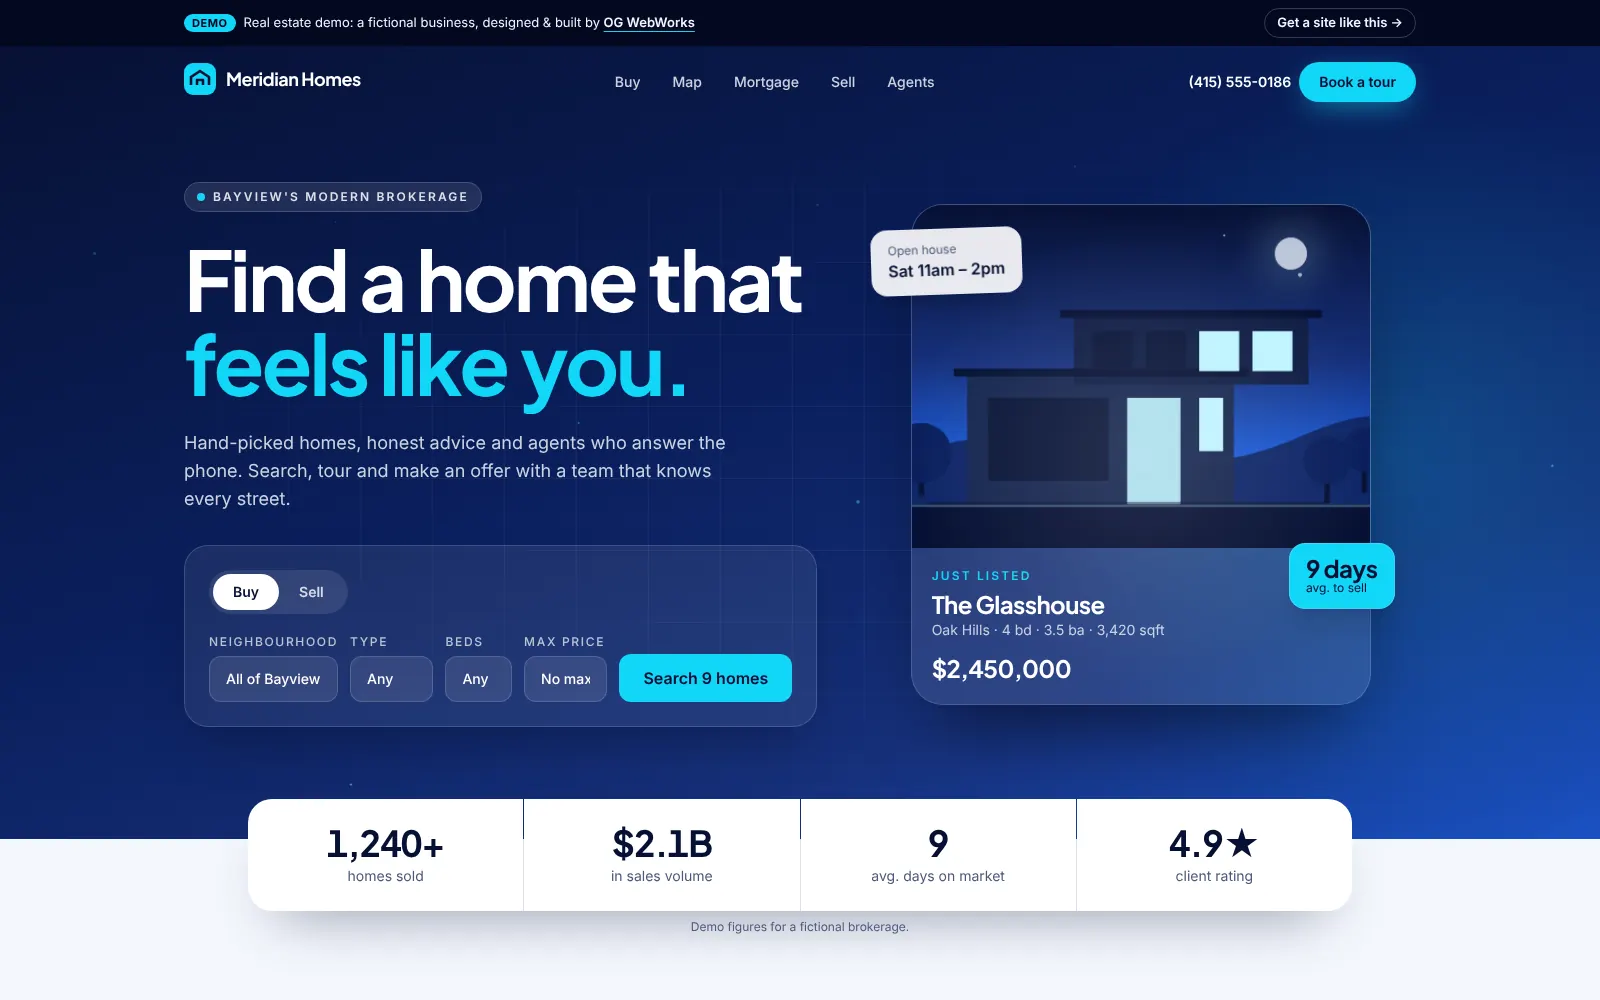
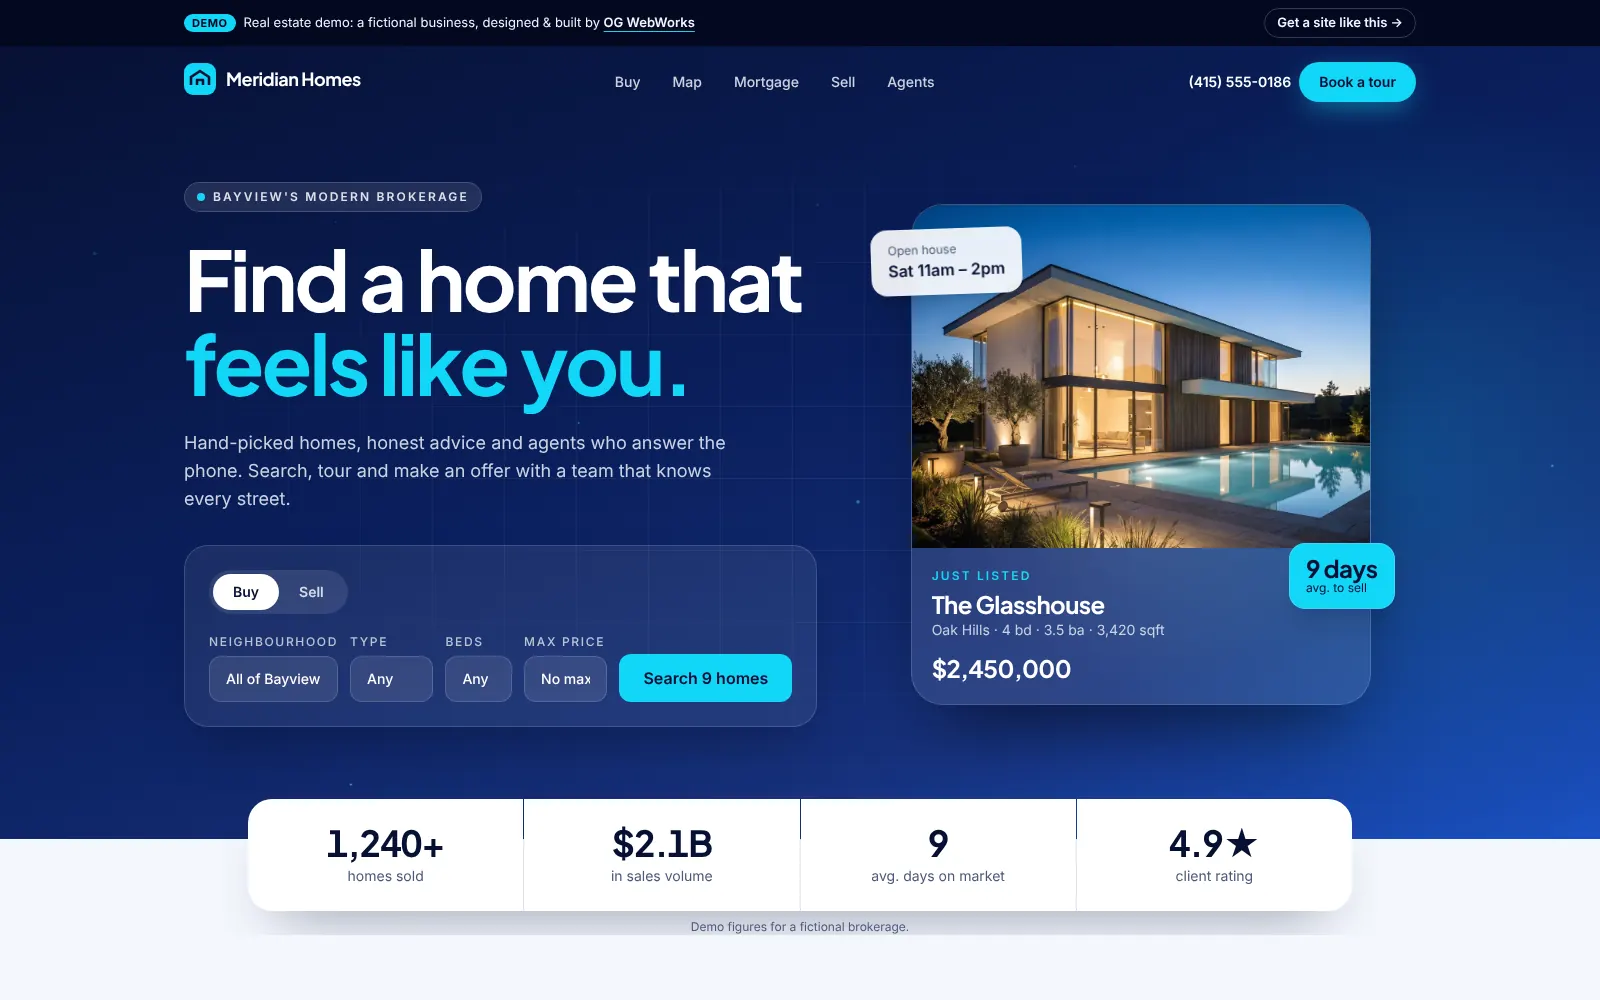
Real estate demo: photographic hero listing (dusk exterior)
Replace the illustrated house in the Meridian Homes hero card with an
AI-generated dusk photo of 'The Glasshouse' (Higgsfield, Nano Banana Pro),
optimised to 1200x900 WebP (93 KB, lazy so phones that hide it skip it).
Homepage thumbnail refreshed; prompt recorded in docs/IMAGE_PROMPTS.md.

Claude-Session: https://claude.ai/code/session_01QndBwt4KJykXdFvXCkmebg

Changed region(s): [[0.5625, 0.186, 0.875, 0.558]]

diff --git a/src/app/demos/real-estate/page.tsx b/src/app/demos/real-estate/page.tsx
@@ -3,7 +3,7 @@ import ReNav, { ReLogo } from "@/components/demos/realestate/ReNav";
 import HeroSearch from "@/components/demos/realestate/HeroSearch";
 import Listings from "@/components/demos/realestate/Listings";
 import ListingModal from "@/components/demos/realestate/ListingModal";
-import HouseArt from "@/components/demos/realestate/HouseArt";
+import SiteImage from "@/components/SiteImage";
 import { ListingMap, Mortgage, TourForm, Valuation } from "@/components/demos/realestate/Tools";
 import { agency, agents, testimonials } from "@/components/demos/realestate/data";
 import { CountUp, InView, Marquee, Particles, Tilt, Words } from "@/components/demos/motion";
@@ -39,7 +39,7 @@ export default function RealEstateDemo() {
           <div className="relative mx-auto hidden w-full max-w-[460px] lg:block">
             <Tilt className="overflow-hidden rounded-[2rem] border border-white/15 bg-white/10 shadow-[0_40px_80px_-30px_rgba(0,0,0,0.6)] backdrop-blur-xl">
               <div className="aspect-[4/3] overflow-hidden">
-                <div className="dm-kenburns h-full w-full"><HouseArt style="modern" seed={3} dusk /></div>
+                <div className="dm-kenburns h-full w-full"><SiteImage name="demo-re-hero" sizes="460px" /></div>
               </div>
               <div className="p-5">
                 <p className="text-xs font-semibold uppercase tracking-[0.18em] text-re-cyan">Just listed</p>

diff --git a/src/lib/images.ts b/src/lib/images.ts
@@ -39,6 +39,7 @@ export const imageSlots = {
   "demo-law-thumb": { w: 1600, h: 1000, alt: "Preview of the Ashford Lane Law demo website" },
   "demo-clinic-thumb": { w: 1600, h: 1000, alt: "Preview of the Harbourside Health clinic demo website" },
   "demo-re-thumb": { w: 1600, h: 1000, alt: "Preview of the Meridian Homes real estate demo website" },
+  "demo-re-hero": { w: 1200, h: 900, alt: "Modern two-storey glass and timber home at dusk with warm interior lights and a lit pool" },
 } as const;
 
 export type ImageSlot = keyof typeof imageSlots;

diff --git a/docs/IMAGE_PROMPTS.md b/docs/IMAGE_PROMPTS.md
@@ -172,3 +172,11 @@ Save each as `images-src/<file name>.png`, run `npm run images`, and every produ
 No photos needed. The redesign is a risograph "printed menu" concept: every dish illustration is generated in code (overprinted olive/tomato/ink shapes with halftone dots), so the look stays flat, printed and consistent. Real photography would fight the style. If a real client wants photos, shoot them flat-lay on cream paper and run them through a two-colour riso/duotone filter (olive #4a5a2a + tomato #d9432b).
 
 `demo-resto-thumb` is generated automatically (a screenshot of the demo).
+
+
+---
+
+# Demo site: Meridian Homes (real estate)
+
+## RE1. `demo-re-hero`: "The Glasshouse" hero listing (4:3). Generated with Higgsfield (Nano Banana Pro, 2k)
+> Professional real-estate architectural photograph of a modern two-storey luxury home at dusk (blue hour). Clean contemporary design: flat cantilevered roof, floor-to-ceiling glass walls on both floors, white render and warm vertical timber cladding, slim black window frames. Warm golden interior lighting glows through every window, revealing a minimal living room with a designer sofa and pendant lights. In front: a long rectangular pool with soft underwater lights reflecting the house, a stone terrace with lounge chairs, low architectural garden lighting, ornamental grasses and two olive trees. Sky graded from deep navy at the top to cobalt and soft azure blue near the horizon, a few early stars, no clouds. Shot on a full-frame camera with a 24mm tilt-shift lens from a slightly low three-quarter angle, verticals perfectly straight, crisp detail, high dynamic range, magazine-quality real-estate photography. No people, no text, no watermark, no logos.
